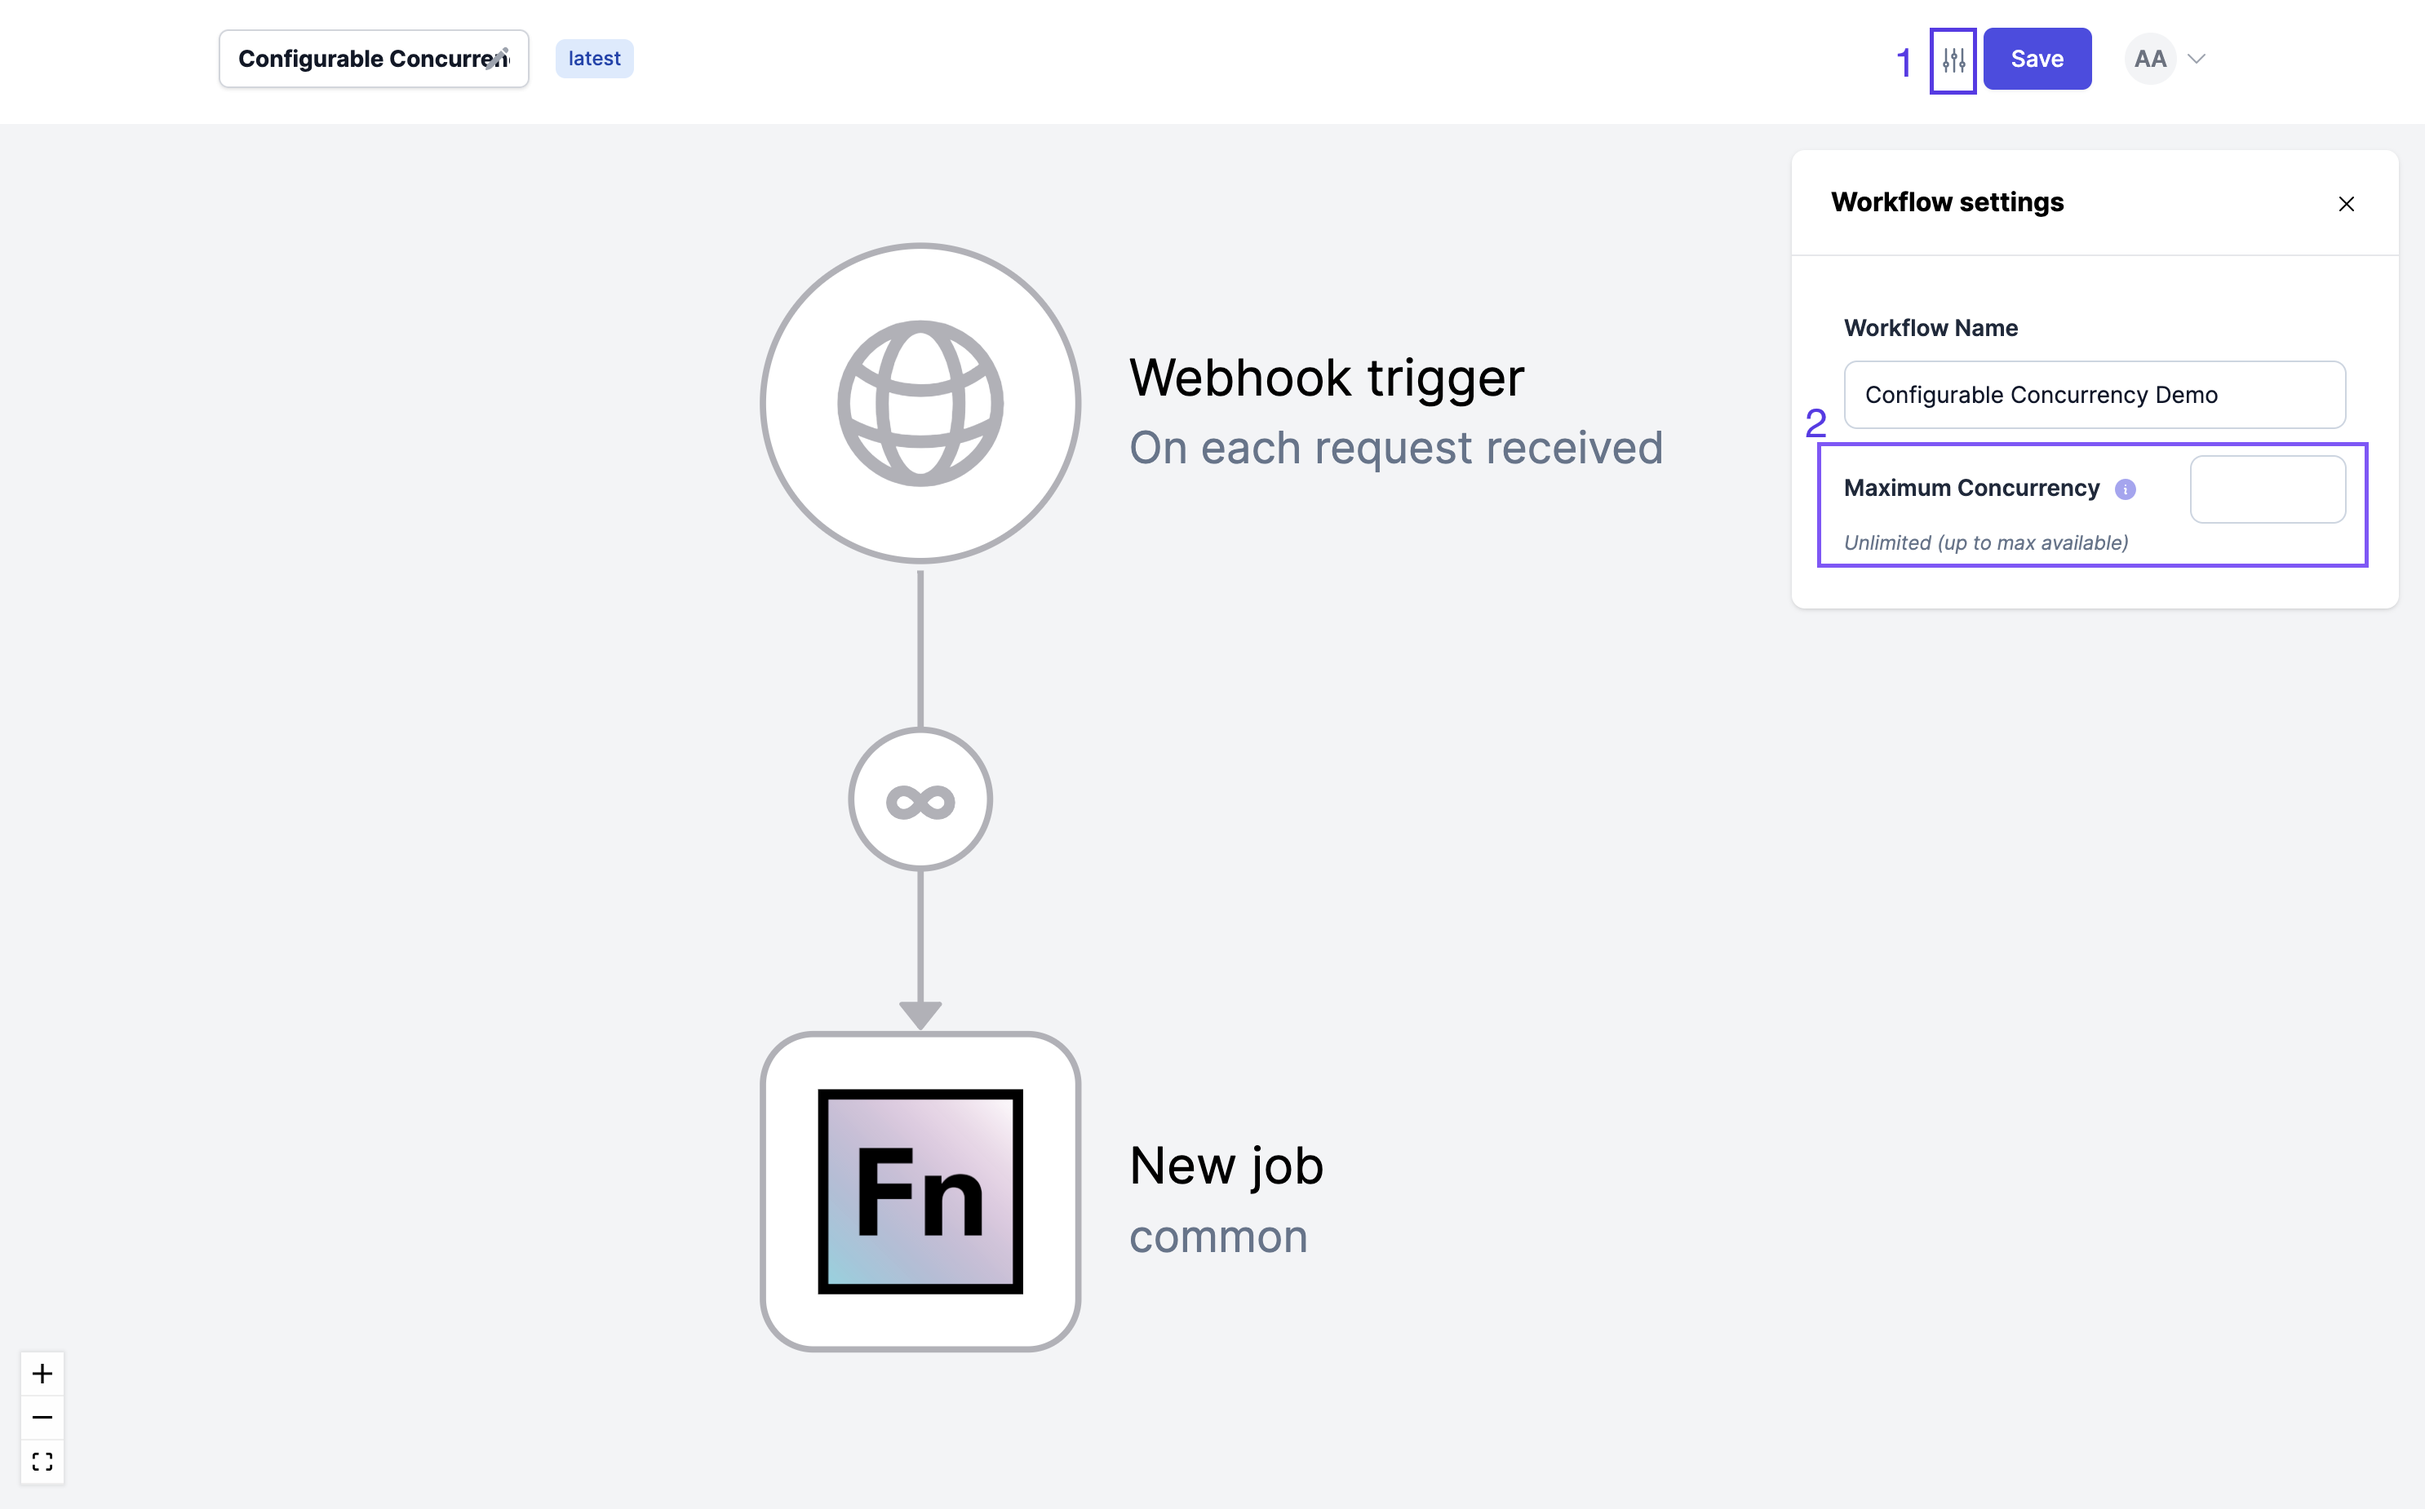
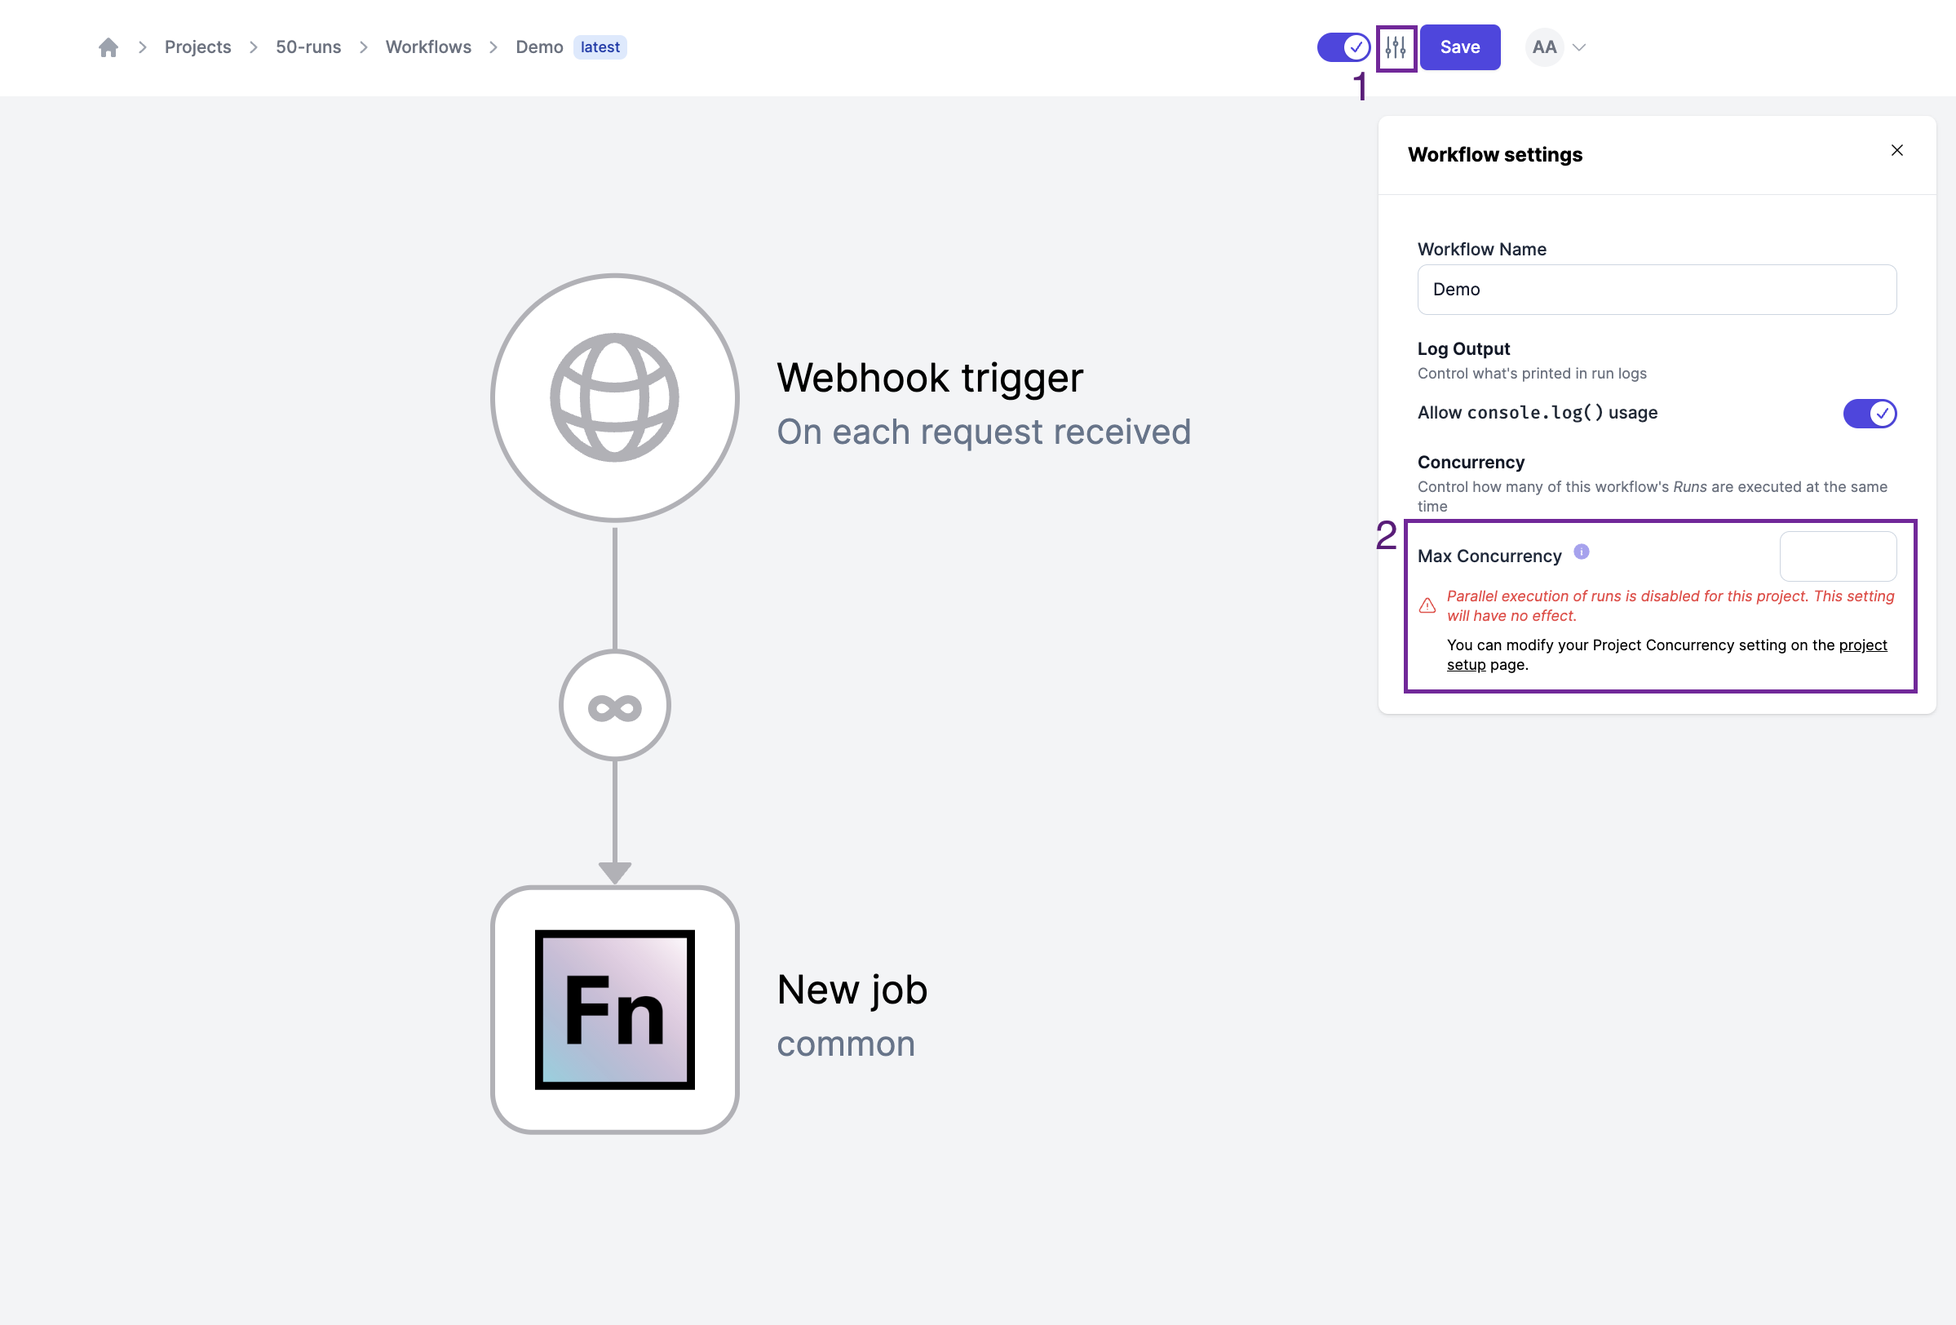
Updated docs

diff --git a/docs/build/workflows.md b/docs/build/workflows.md
@@ -37,7 +37,7 @@ more steps into one step or to skip some steps:
 
 ![Merging](/img/workflow_builder_merging.gif)
 
-:::note LOOPING WORKFLOWS ARE NOT SUPPORTED
+:::note Looping is not supported
 
 Looping workflows are not supported so you have to connect paths to downstream
 steps. When using branching and skipping paths, you can use edge conditions like
@@ -54,16 +54,41 @@ workflow manually.
 
 <iframe width="784" height="441" src="https://www.youtube.com/embed/dssixE3Sukc?si=n3Jpdiu_aiBLXuHb" title="YouTube video player" frameborder="0" allow="accelerometer; autoplay; clipboard-write; encrypted-media; gyroscope; picture-in-picture; web-share" allowfullscreen></iframe>
 
-## Turn off or disable Workflows
+:::info
 
-To "turn off" or disable a Workflow:
+Please note that workflows are disabled by default. When you are ready to have
+your workflow running, you have to manually enable the workflow.
 
-1. Open the Workflow
-2. Click on the Trigger
-3. Select the **Disable this trigger** checkbox
-4. Select **Save** to save your changes and turn off / disable your workflow
+:::
 
-![disable-wf](/img/disable-wf.png)
+### Enabling or Disabling a Workflow
+
+There are two ways to disable or enable a workflow in your OpenFn project:
+
+1. via the workflow state toggle
+2. via the workflow trigger
+
+#### Via the workflow state toggle
+
+You can enable or disable your workflow by using the toggle button located on
+the corresponding row in the project workflows list or the toggle on the
+navigation bar in the workflow canvas.
+
+The screenshot below shows an enabled workflow in the workflow list.
+
+![Via the workflow list](/img/workflow_list_toggle.png)
+
+The screenshot below shows a disabled workflow in the workflow canvas.
+
+![Via the workflow canvas](/img/workflow_canvas_toggle.png)
+
+#### Via the workflow trigger
+
+To disable or disable a workflow via the workflow trigger, select the trigger
+icon on the canvas and use the toggle in the configuration panel to toggle the
+workflow state.
+
+![Enabled workflow in the trigger panel](/img/via-trigger-panel.png)
 
 ## Limit Concurrency
 
@@ -109,6 +134,17 @@ canvas.
 
 ![Configuring Concurrency](/img/configuring-concurrency.png)
 
+### Log Outputs
+
+For data security and compliance purposes, the log output of a workflow run can
+be configured to disable logging `console.log()` statements. This can be done
+via the workflow configuration modal by a project owner or administrator.
+
+1. Click on the settings icon beside the save button on your workflow to open
+   the workflow settings
+2. In the modal, enter the maximum concurrency limit
+
+![Configuring Log Outputs](/img/configuring-log-outputs.png)
 
 ## Keyboard Shortcuts
 
